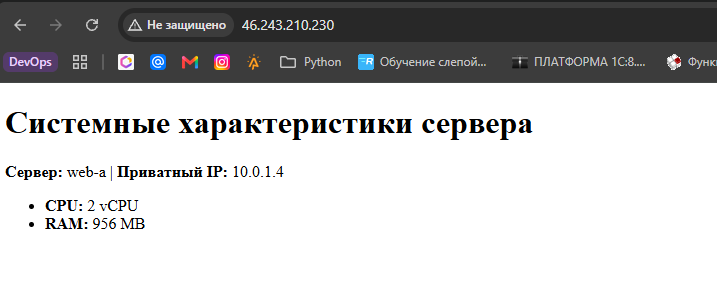
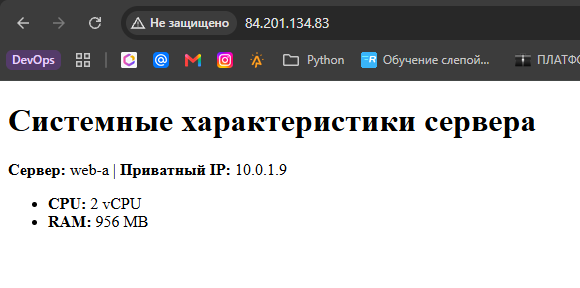
Добавил проверку отказоустойчивости веб серверов

diff --git a/kursovoy/README.md b/kursovoy/README.md
@@ -3,7 +3,7 @@
 
 Содержание
 ==========
-* [Мои результаты выполнения кусового проекта и скриншоты](#мои-результаты-выполнения)
+* [Мои результаты выполнения курсового проекта и скриншоты](#мои-результаты-выполнения)
 * [Задача](#задача)
 * [Инфраструктура](#инфраструктура)
     * [Сайт](#сайт)
@@ -112,12 +112,12 @@ Cоздайте ВМ, разверните на ней Elasticsearch. Устан
 
 Облачные ресурсы описал в Terraform, установку сервисов и их настройки - в Ansible. Сервисы работают непосредственно в Ubuntu под управлением systemd, без Docker. Источник данных и дашборд Grafana тоже создаются из кода, поэтому после пересоздания стенда их не нужно собирать вручную.
 
-Скриншоты ниже относятся к одному из развертываний стенда. В Kibana на них выбран интервал 14 ноября 2026 года. Публичные и внутренние адреса после пересоздания ВМ могут измениться, текущие адреса нужно брать из Terraform outputs.
 
 ### Навигация по реализации
-- [Структура рабочего каталога](#cтруктура-рабочего-каталога)
+- [Структура рабочего каталога](#структура-рабочего-каталога)
 - [Схема и виртуальные машины](#схема-и-виртуальные-машины)
 - [Сайт и балансировка](#сайт-и-балансировка)
+- [Проверка отказоустойчивости](#проверка-отказоустойчивости-веб-серверов)
 - [Сеть и доступ](#сеть-и-доступ)
 - [Мониторинг](#мониторинг-стенда)
 - [Сбор логов](#сбор-логов)
@@ -299,13 +299,115 @@ Target Group → Backend Group → HTTP Router → Application Load Balancer
 
 Ответ от `web-a`:
 
-![Страница через балансировщик: web-a, приватный IP 10.0.1.4](docs/images/01-site-web-a.png)
+![Страница через балансировщик: web-a, приватный IP 10.0.1.9](docs/images/01-site-web-a.png)
 
 Ответ от `web-b`:
 
-![Страница через тот же балансировщик: web-b, приватный IP 10.0.5.22](docs/images/02-site-web-b.png)
+![Страница через тот же балансировщик: web-b, приватный IP 10.0.5.19](docs/images/02-site-web-b.png)
 
 Эти скриншоты показывают ответы обоих backend через общий адрес.
+
+### Проверка отказоустойчивости веб-серверов
+
+Я повторил проверку с непрерывными запросами к Application Load Balancer по адресу `84.201.134.83`. В одном терминале управлял Nginx через Ansible и проверял состояние служб, во втором записывал ответы сайта. На каждом снимке эти два терминала показаны рядом, поэтому видно и состояние серверов, и результат обращения к ALB.
+
+В журнале для каждого запроса указаны время, адрес ALB, HTTP-код, имя ответившего сервера и код завершения `curl`. Имя backend берётся из поля «Сервер» на странице сайта. Вывод записывался через `tee` в `failover-20261120-155034.log`; ниже приведены снимки его фрагментов.
+
+Я останавливал только Nginx. Сами ВМ во время этой проверки не выключал.
+
+#### 1. Исходное состояние: оба Nginx работают
+
+Сначала запустил Nginx на обоих серверах и вывел состояние служб:
+
+```bash
+ansible webservers -i hosts.ini -b \
+  -m ansible.builtin.shell \
+  -a "systemctl start nginx && systemctl show nginx -p ActiveState -p SubState"
+```
+
+На `web-a` и `web-b` показаны `ActiveState=active` и `SubState=running`. Справа в журнале есть ответы `HTTP=200` от обоих backend через один адрес ALB.
+
+![Исходное состояние: оба Nginx active/running, ALB возвращает HTTP 200 от web-a и web-b](docs/images/13-failover-baseline.png)
+
+#### 2. Остановка Nginx на web-a
+
+Остановил Nginx на `web-a`, затем отдельно проверил состояние обоих серверов:
+
+```bash
+ansible web-a -i hosts.ini -b \
+  -m ansible.builtin.shell \
+  -a "systemctl stop nginx && systemctl show nginx -p ActiveState -p SubState"
+
+ansible webservers -i hosts.ini \
+  -m ansible.builtin.command \
+  -a "systemctl show nginx -p ActiveState -p SubState"
+```
+
+Слева видно, что на `web-a` Nginx перешёл в `inactive/dead`, а на `web-b` остался в `active/running`. После переключения сайт отвечал с `web-b`, в журнале идут ответы `HTTP=200 backend=web-b`.
+
+При этом переход не был полностью безошибочным: в `15:51:56` зафиксирован `HTTP=503 backend=- curl_rc=0`. Следующий показанный запрос, в `15:51:57`, уже получил `HTTP=200` от `web-b`. Я оставил ошибку на снимке: она показывает, что при переключении был неуспешный запрос. Значение `curl_rc=0` здесь не означает HTTP 200 — клиент получил HTTP-ответ, но его статус был 503.
+
+![Отказ web-a: Nginx inactive/dead, web-b active/running; видны HTTP 503 при переходе и последующие HTTP 200 от web-b](docs/images/14-failover-web-a-stopped.png)
+
+#### 3. Восстановление web-a и остановка Nginx на web-b
+
+Перед вторым сценарием вернул Nginx на `web-a` в рабочее состояние. В начале следующего снимка он уже `active/running`, а в журнале снова есть ответы от обоих серверов. После этого остановил Nginx на `web-b`:
+
+```bash
+ansible web-b -i hosts.ini -b \
+  -m ansible.builtin.shell \
+  -a "systemctl stop nginx && systemctl show nginx -p ActiveState -p SubState"
+
+ansible webservers -i hosts.ini \
+  -m ansible.builtin.command \
+  -a "systemctl show nginx -p ActiveState -p SubState"
+```
+
+Теперь на `web-b` служба находится в `inactive/dead`, на `web-a` — в `active/running`. В показанном фрагменте после остановки `web-b` сайт обслуживает `web-a` с `HTTP=200`.
+
+![Отказ web-b: Nginx inactive/dead, web-a active/running; ALB возвращает HTTP 200 от web-a](docs/images/15-failover-web-b-stopped.png)
+
+#### 4. Восстановление обоих сервисов
+
+В конце проверки запустил Nginx на обоих серверах той же командой, что использовал в начале:
+
+```bash
+ansible webservers -i hosts.ini -b \
+  -m ansible.builtin.shell \
+  -a "systemctl start nginx && systemctl show nginx -p ActiveState -p SubState"
+```
+
+Оба сервиса вернулись в `active/running`. В журнале снова появились ответы `HTTP=200` от `web-a` и `web-b` через общий адрес балансировщика.
+
+![Завершение проверки: оба Nginx active/running, ALB снова возвращает HTTP 200 от обоих backend](docs/images/16-failover-recovery.png)
+
+#### Результат повторной проверки
+
+| Этап | Nginx на web-a | Nginx на web-b | Ответы через ALB |
+|---|---|---|---|
+| Исходное состояние | `active/running` | `active/running` | HTTP 200 от обоих серверов |
+| Остановка web-a | `inactive/dead` | `active/running` | При переходе виден HTTP 503, затем HTTP 200 от web-b |
+| Остановка web-b после восстановления web-a | `active/running` | `inactive/dead` | В показанном фрагменте HTTP 200 от web-a |
+| Завершение проверки | `active/running` | `active/running` | Снова HTTP 200 от обоих серверов |
+
+Проверка показала, что после остановки Nginx на одном сервере сайт может обслуживаться вторым через тот же адрес ALB.
+
+#### Отдельная проверка: остановлены оба Nginx
+
+Ранее я также проверил случай с остановкой Nginx на обоих серверах.
+
+![Отдельный эксперимент: команды остановки Nginx на web-b и web-a завершились с rc=0](docs/images/11-failover-stop-both.png)
+
+Когда оба веб-сервиса были недоступны, ALB вместо сайта показал ошибку подключения к upstream:
+
+```text
+upstream connect error or disconnect/reset before headers
+```
+
+![Отдельный эксперимент: ошибка ALB при недоступности обоих Nginx](docs/images/12-failover-both-unavailable.png)
+
+На этом старом браузерном снимке HTTP-код не показан. Он иллюстрирует границу резервирования: если не работает ни один backend, обслужить запрос некому.
+
 ### Сеть и доступ
 
 В [network.tf](network.tf) создал одну VPC с публичными и приватными подсетями. У веб-серверов, Prometheus и Elasticsearch нет публичных IP. Для скачивания пакетов и архивов из приватных подсетей настроен маршрут через NAT-шлюз.
@@ -441,7 +543,7 @@ schedule_policy {
 retention_period = "168h"
 ```
 
-Запуск настроен ежедневно в `00:00`, хранение - семь суток. В `disk_ids` перечислены загрузочные диски всех семи ВМ, включая bastion. Отдельных data-дисков в текущем `vms.tf` нет.
+Запуск настроен ежедневно в `00:00 UTC`, хранение - семь суток. В `disk_ids` перечислены загрузочные диски всех семи ВМ, включая bastion. Отдельных data-дисков в текущем `vms.tf` нет.
 
 
 ### Как развернуть стенд
